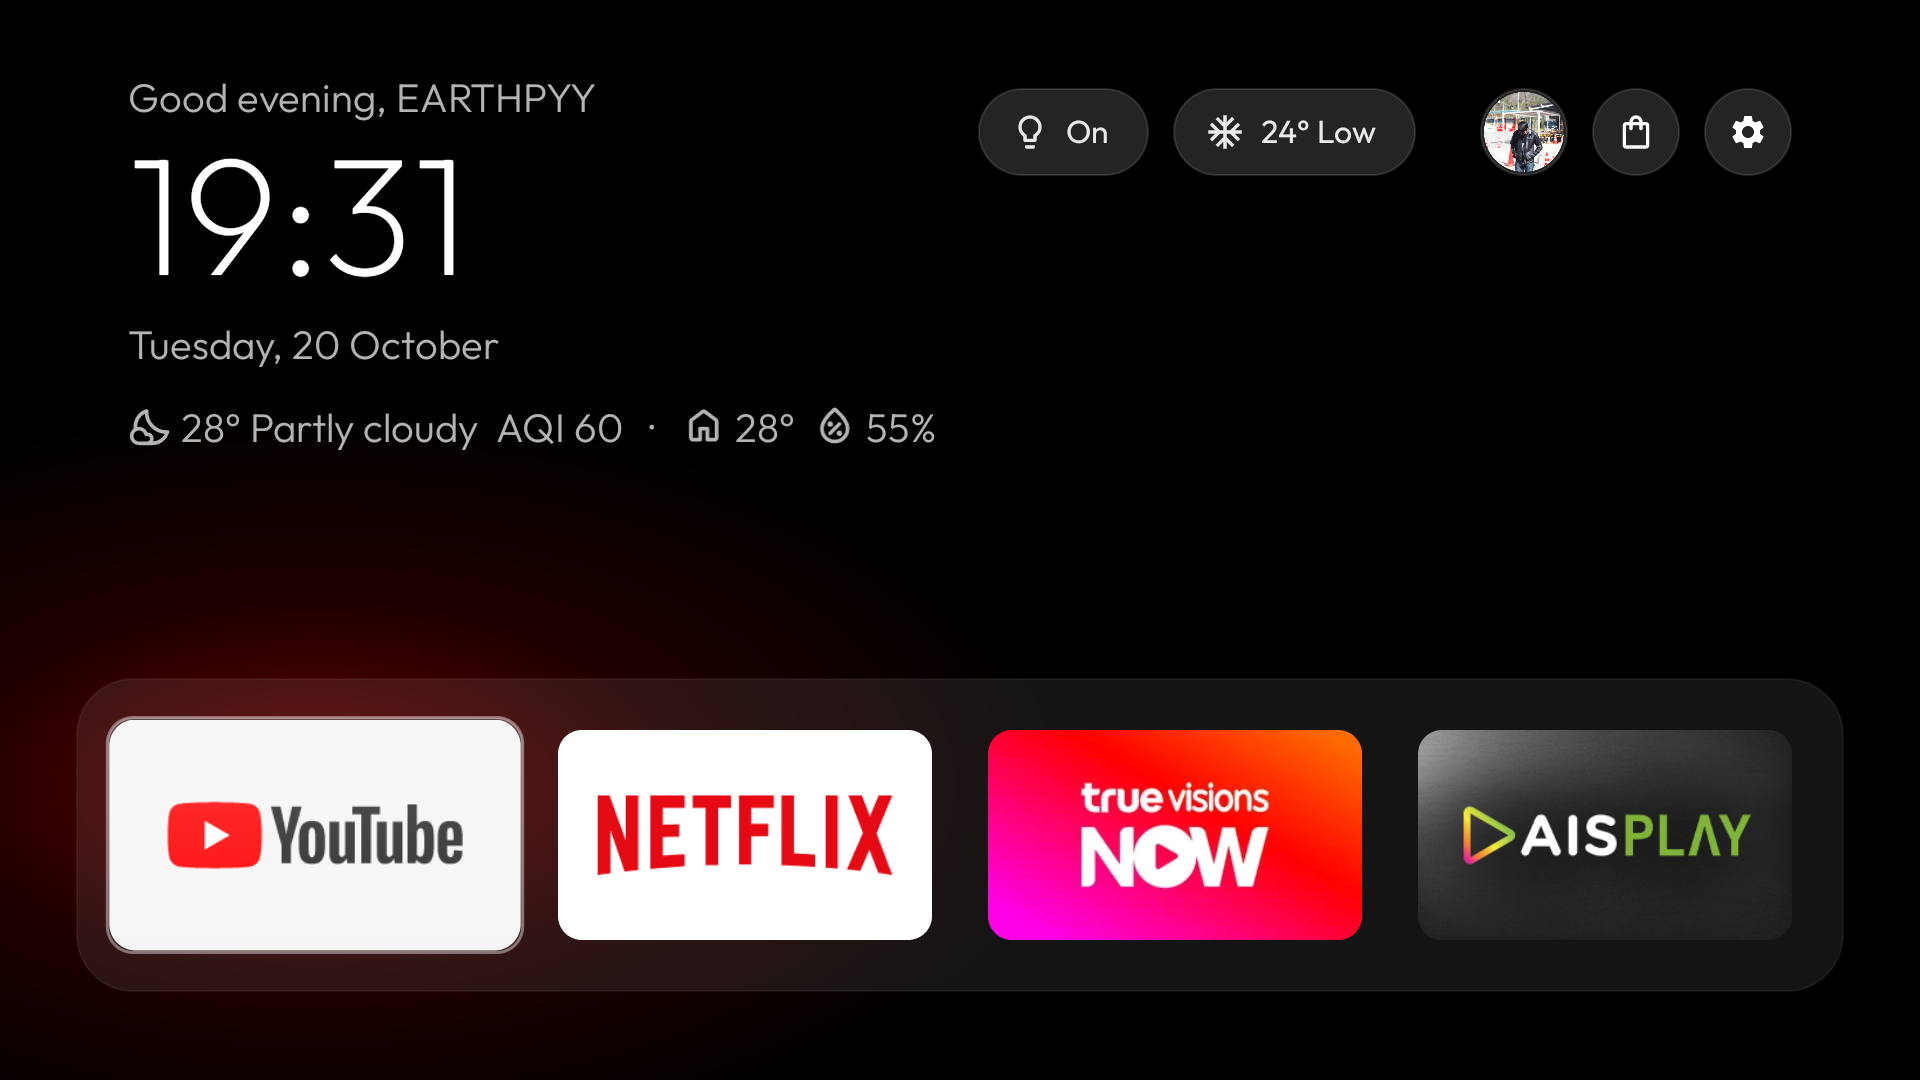
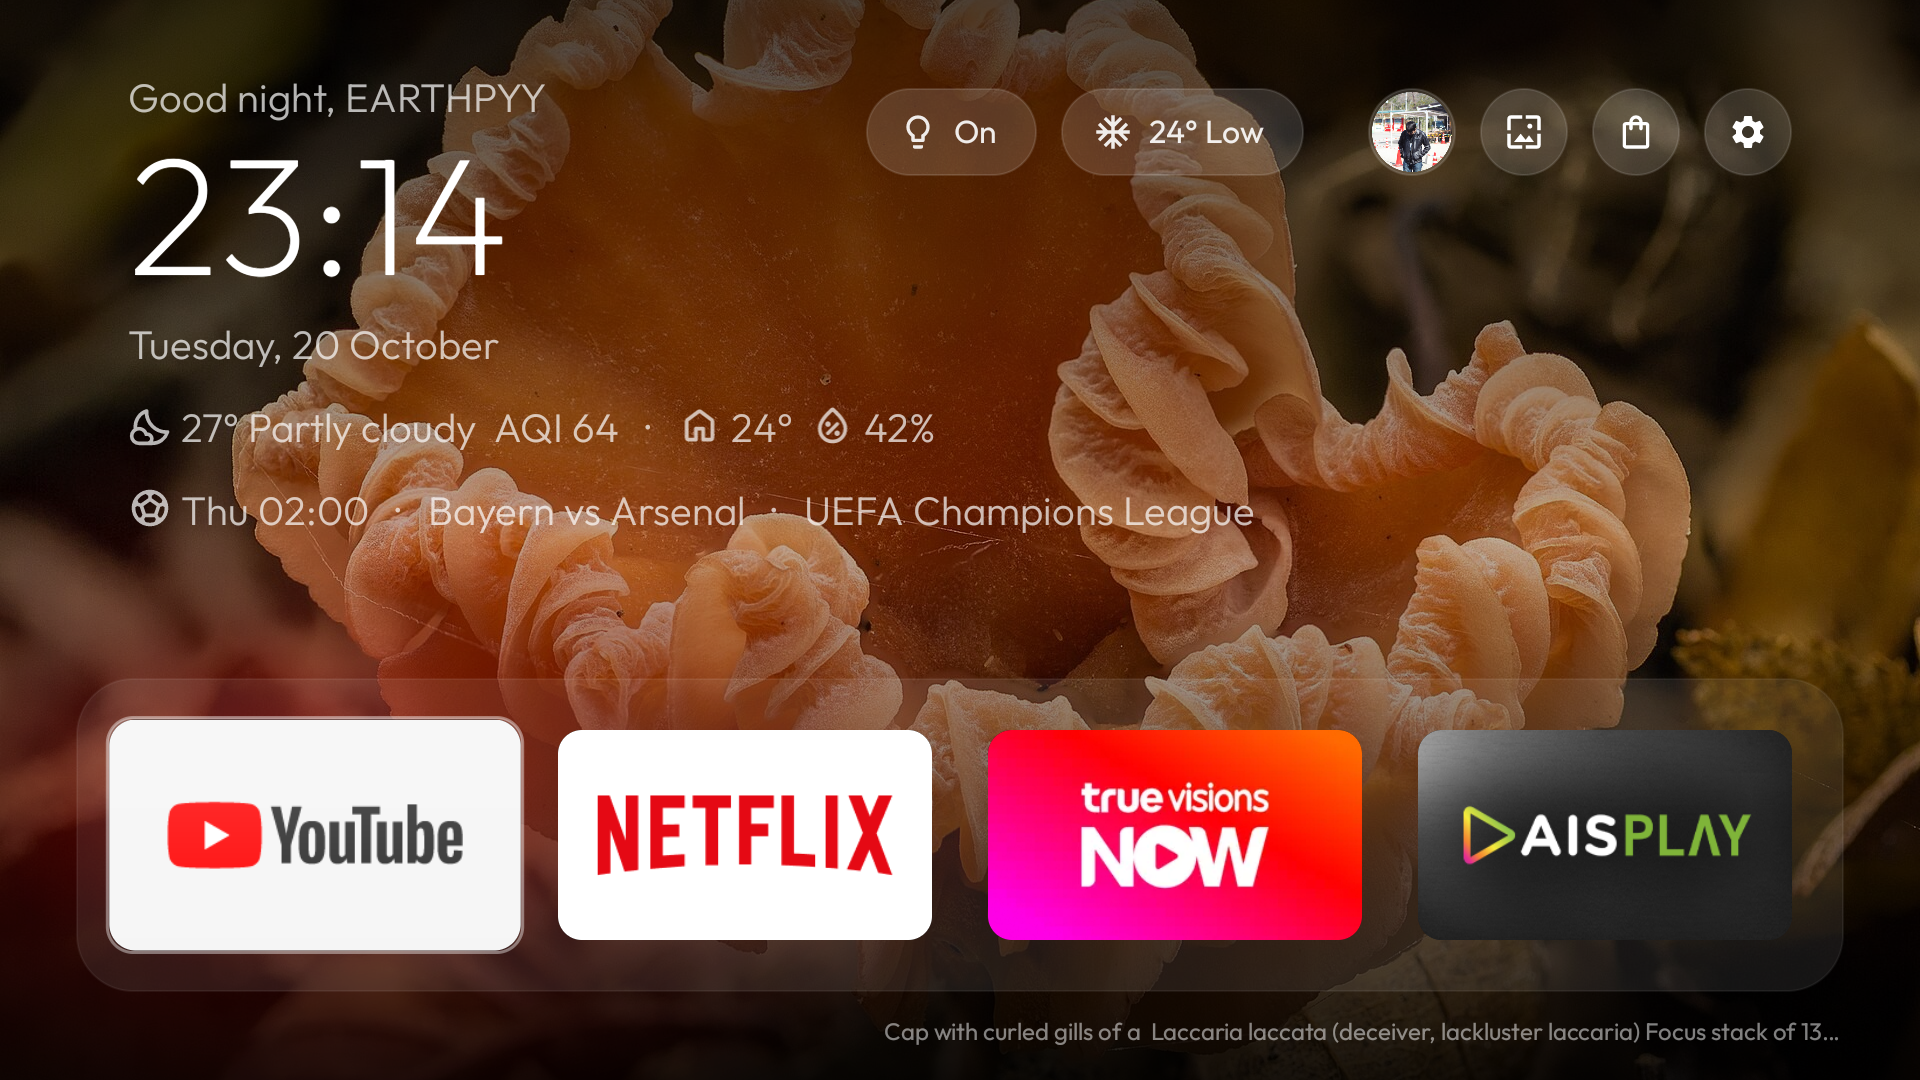
Update README screenshot with a wallpaper

diff --git a/README.md b/README.md
@@ -2,7 +2,7 @@
 
 A calm, Apple TV style home screen for the **Chromecast with Google TV (4K, Android 14)**. No ads, no recommendations, no autoplaying trailers: just your apps, the time, and (if you like) your home.
 
-![The home screen: greeting, clock, date, Home Assistant glance line, light and AC pills, profile, Play Store and Settings buttons, and a dock of four apps](docs/home.png)
+![The home screen over a Wikimedia picture of the day: greeting, clock, date, Home Assistant glance line, football line, light and AC pills, profile, wallpaper, Play Store and Settings buttons, and a dock of four apps](docs/home.png)
 
 Built on top of [Gathin23/cleanyourtv](https://github.com/Gathin23/cleanyourtv).
 
@@ -174,6 +174,7 @@ On Google TV, `com.google.android.tungsten.setupwraith` grabs HOME as soon as th
 ## Credits
 
 - [Gathin23/cleanyourtv](https://github.com/Gathin23/cleanyourtv), the starting point for this launcher.
+- Screenshot wallpaper: [*Gewone fopzwam (Laccaria laccata)*](https://commons.wikimedia.org/wiki/File:Gewone_fopzwam_(Laccaria_laccata)._Locatie,_Paddenstoelenreservaat._14-10-2025._(d.j.b).jpg) by Dominicus Johannes Bergsma, [CC BY-SA 4.0](https://creativecommons.org/licenses/by-sa/4.0).
 - Built with the help of [Claude](https://claude.ai) and [Claude Code](https://claude.com/claude-code) by Anthropic.
 
 ## License
